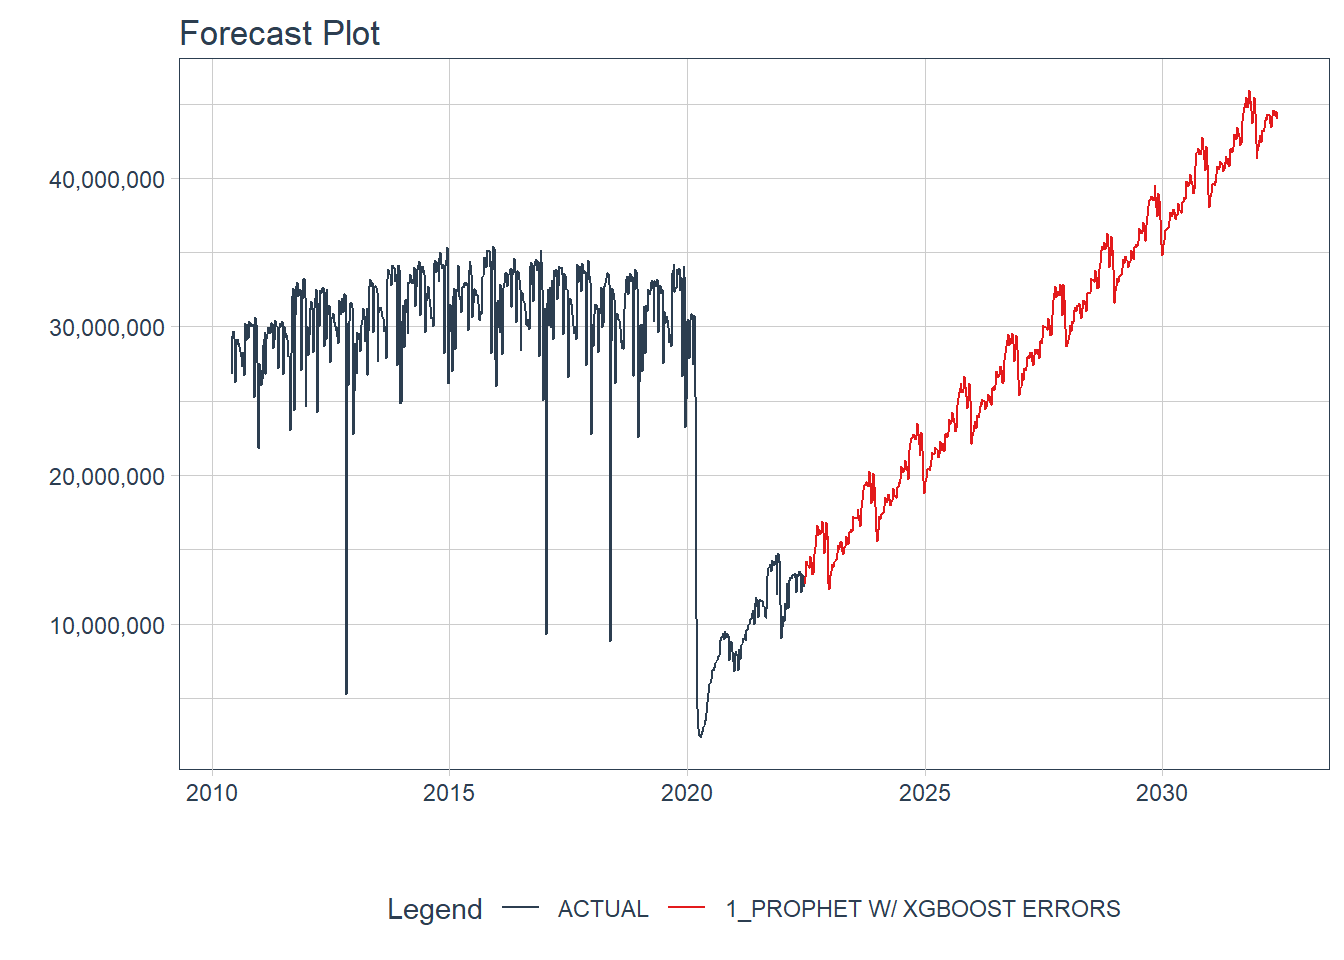
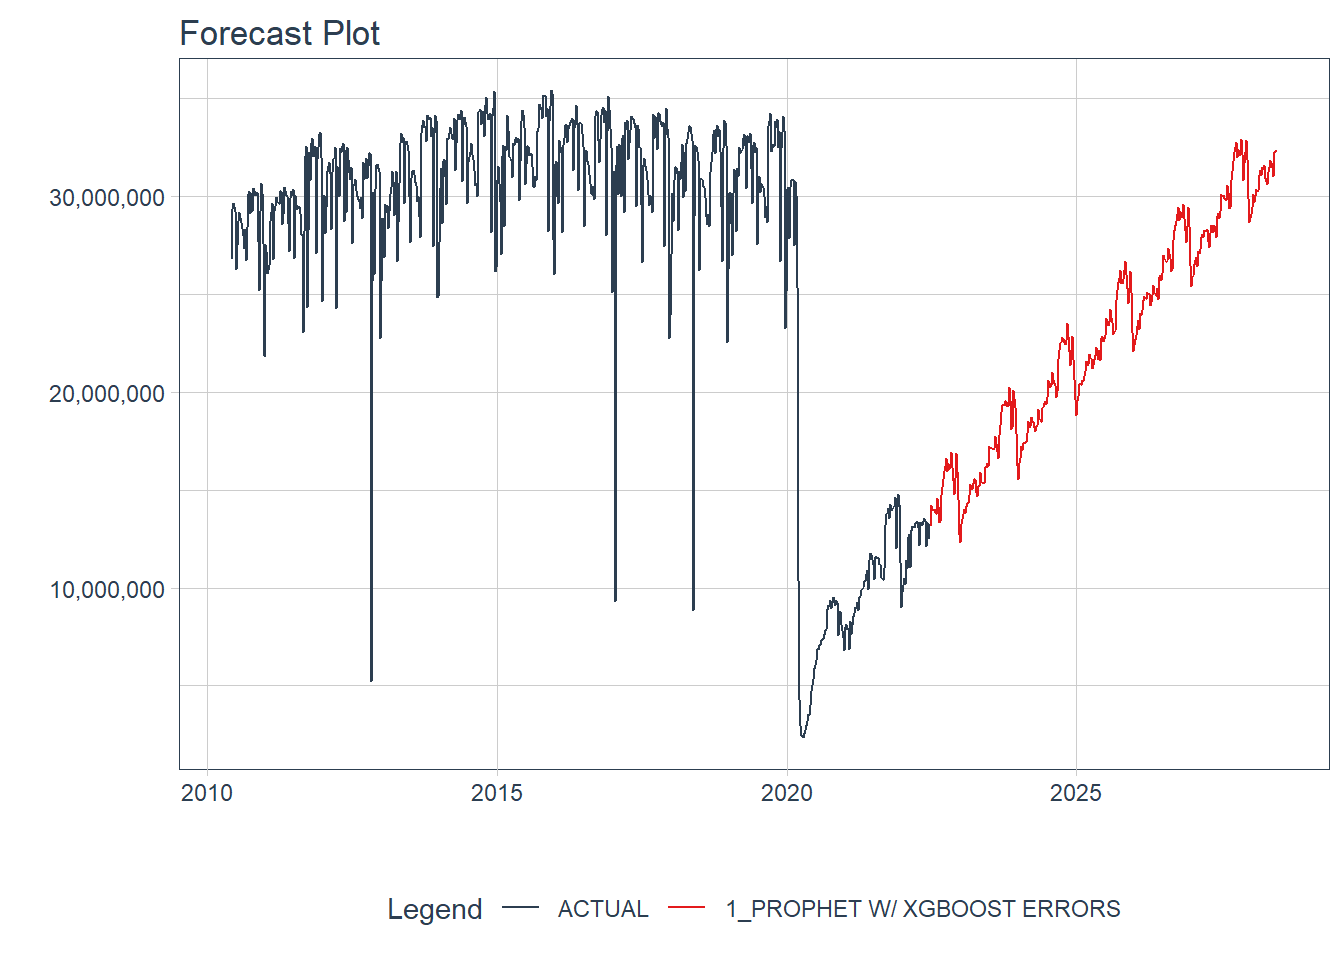
first update

diff --git a/content/post/2022-08-29-when-will-nyc-s-subway-ridership-recover/index.html b/content/post/2022-08-29-when-will-nyc-s-subway-ridership-recover/index.html
@@ -23,7 +23,7 @@ projects: []
 
 
 
-<p>During the writing of my posts about COVIDs effect on the NYC Subway ridership the New York Times published an article called <a href="https://www.nytimes.com/2022/08/15/nyregion/mta-nyc-budget.html"><em>The Pandemic Wasn’t Supposed to Hurt New York Transit This Much</em></a>. In this article there’s comment that:</p>
+<p>During the writing of my posts about COVID’s effect on the NYC Subway ridership the New York Times published an article called <a href="https://www.nytimes.com/2022/08/15/nyregion/mta-nyc-budget.html"><em>The Pandemic Wasn’t Supposed to Hurt New York Transit This Much</em></a>. In this article there’s comment that:</p>
 <p><img src="nytimes.PNG" /></p>
 <p>While I have no knowledge of there this 80% target by 2026 comes from, I do have some subway fare data sitting around. So why not compare the article’s data to my own.</p>
 <p>The methodology will be similar to what I did in my <a href="https://jlaw.netlify.app/2022/07/13/how-much-has-covid-cost-the-nyc-subway-system-in-lost-fares/">initial subway forecasting post</a> using the <code>modeltime</code> package and the champion Prophet w/ XGBoosted Errors to do the forecasting.</p>
@@ -44,17 +44,22 @@ library(prophet) # Algorithm for forecasting</code></pre>
 </div>
 <div id="data" class="section level2">
 <h2>Data</h2>
-<p>The data is the same set from my [initial post](post](<a href="https://jlaw.netlify.app/2022/07/13/how-much-has-covid-cost-the-nyc-subway-system-in-lost-fares/" class="uri">https://jlaw.netlify.app/2022/07/13/how-much-has-covid-cost-the-nyc-subway-system-in-lost-fares/</a>).</p>
+<p>The data is the same set from my [initial post](post](<a href="https://jlaw.netlify.app/2022/07/13/how-much-has-covid-cost-the-nyc-subway-system-in-lost-fares/" class="uri">https://jlaw.netlify.app/2022/07/13/how-much-has-covid-cost-the-nyc-subway-system-in-lost-fares/</a>). Its initially at the week/station/fare level. For this exercise I just need the data at the weekly level.</p>
 <pre class="r"><code>fares &lt;- readRDS(file.path(here(), &#39;content&#39;, &#39;post&#39;, 
                            &#39;2022-07-13-how-much-has-covid-cost-the-nyc-subway-system-in-lost-fares&#39;, 
                            &#39;data&#39;,
                            &#39;mta_data.RDS&#39;)) %&gt;% 
   group_by(week_start) %&gt;% 
   summarize(fares = sum(fares))</code></pre>
+<p>My <a href="https://jlaw.netlify.app/2022/07/13/how-much-has-covid-cost-the-nyc-subway-system-in-lost-fares/">first blog post</a> in this series covered the <code>modeltime</code> package in more detail for trying out many different forcasting models. That post found that Prophet with XGBoosted Errors was the best model. Here I’ll be replicating that workflow for that modeltype.</p>
+<p><em>Step 1: Defining the pre-processing recipe</em></p>
+<p>This defines the forecasting formula as predicting fares based on all other features and then creates a bunch of time series specific features from the date field in <code>step_timeseries_signature</code>. <code>step_rm</code> removes some variables created in the prior step that isn’t useful, and finally <code>step_dummy</code> turns all the categorical variables into one-hot encoded indicators. Here I also set the training data set as the MTA Fares beginning during the COVID period (after April 1, 2020) since training on the prior time period will give very strange results.</p>
 <pre class="r"><code>rec &lt;- recipe(fares ~ ., data = fares %&gt;% filter(week_start &gt;= ymd(20200401))) %&gt;%
   step_timeseries_signature(week_start) %&gt;% 
   step_rm(matches(&quot;(.iso$)|(am.pm$)|(.xts$)|(hour)|(minute)|(second)|(wday)&quot;)) %&gt;% 
   step_dummy(all_nominal(), one_hot = TRUE)</code></pre>
+<p><em>Step 2: Define the Model Workflow and Fit the Model</em></p>
+<p>Sticking with the <code>tidymodels</code> framework, here I define a workflow which will consist of the recipe created in <em>Step 1</em> through <code>add_recipe</code> and the model set through <code>add_model()</code>. Within <code>add_model()</code> sets the model type to be Boosted Prophet. I believe the ‘prophet_xgboost’ is the default engine so <code>set_engine</code> isn’t necessary, but good to keep around anyway.</p>
 <pre class="r"><code>prophet_boost_wf &lt;- workflow() %&gt;%
   add_model(
     prophet_boost(seasonality_yearly = TRUE) %&gt;%
@@ -62,31 +67,85 @@ library(prophet) # Algorithm for forecasting</code></pre>
   ) %&gt;% 
   add_recipe(rec) %&gt;%
   fit(fares %&gt;% filter(week_start &gt;= ymd(20200401)) )</code></pre>
+<p><em>Step 3: Using the Model to Forecast the Future</em></p>
+<p>In this instance I don’t have a test set to work with so I’m jumping directly into forecasting. Also since I don’t know how long it will take for the forecast to recover to pre-COVID levels, I’ll set the forecast horizon for 6 years. I provide the actual data in the <code>actual_data</code> field so that its included in the output data set.</p>
 <pre class="r"><code>final_fcst &lt;- modeltime_table(
     prophet_boost_wf
   ) %&gt;% 
   modeltime_forecast(
-    new_data = tibble(week_start = seq.Date(ymd(20220618), by = &quot;weeks&quot;, 
-                                            length.out = 52*10)),
+    h = &quot;6 years&quot;,
     actual_data = fares,
     keep_data = TRUE
   )</code></pre>
+<p><em>Visualizing the Forecast</em></p>
+<p>The <code>modeltime</code> package makes it easy to visualize the data through the <code>plot_modeltime_forecast</code> package. The default is to create a <code>plot.ly</code> plot but that can be coverted to a <code>ggplot2</code> plot by setting <code>.interactive</code> to <code>FALSE</code>.</p>
 <pre class="r"><code>final_fcst %&gt;% 
-  plot_modeltime_forecast(.conf_interval_show = T, .interactive = F) + 
+  plot_modeltime_forecast(.interactive = F) + 
   scale_y_continuous(labels = comma)</code></pre>
 <p><img src="{{< blogdown/postref >}}index_files/figure-html/unnamed-chunk-6-1.png" width="672" /></p>
 </div>
 <div id="when-does-fares-return-to-80-to-100" class="section level2">
 <h2>When does fares return to 80%? To 100%?</h2>
+<p>Now we can see how close my forecast is to the New York Times Report. I don’t actually know what the NY Times is considering Pre-COVID levels but for my purposes I’ll use the average number of fares in December 2019 to be my Pre-COVID.</p>
 <pre class="r"><code>baseline &lt;- fares %&gt;% 
   filter(month(week_start)==12 &amp; year(week_start) == 2019) %&gt;% 
   summarize(avg_fares = mean(fares)) %&gt;% 
-  pull(avg_fares)
-
-recovery &lt;- final_fcst %&gt;% 
+  pull(avg_fares)</code></pre>
+<p>From the projection plot above its clear that there is a seasonality that peaks in the fall and drops in December through the New Year. To declare victory at 80% I’m going to require that there are 4 consecutive weeks of fares being above the Pre-COVID baseline.</p>
+<p>I’m not sure of a great way to define when is the earliest date of the first run of 4 weeks above a threshold but I’m working it out in three steps:</p>
+<ol style="list-style-type: decimal">
+<li>Define an indicator for whether that week is above 80% (<code>above_80_ind</code>)</li>
+<li>Run a counter for each time that the indicator flips from 0 to 1 (<code>run_id_80</code>) to get an id for each run</li>
+<li>For each <code>run_id_80</code> get the sum of <code>above_80_inds</code> to represent the length of each run</li>
+</ol>
+<pre class="r"><code>rec_pct &lt;- final_fcst %&gt;% 
   filter(week_start &gt;= ymd(20200401)) %&gt;% 
-  mutate(recovery_pct = .value / baseline) %&gt;% 
+  # Build Recovery Percentage
+  mutate(recovery_pct = .value / baseline) %&gt;%
+  # Define Runs of when recovery_pct is above .8
+  mutate(
+    above_80_ind = (recovery_pct &gt; .8),
+    above_100_ind = (recovery_pct &gt; 1)
+  ) %&gt;% 
+  # Define ID for each time we start a run
+  mutate(
+    run_id_80 = cumsum(if_else(above_80_ind == 1 &amp; lag(above_80_ind) == 0, 
+                               1, 0)),
+    run_id_100 = cumsum(if_else(above_100_ind == 1 &amp; lag(above_100_ind) == 0, 
+                               1, 0))
+  ) %&gt;% 
+  add_count(run_id_80, wt = above_80_ind, name = &quot;run_length_80&quot;) %&gt;%
+  add_count(run_id_100, wt = above_100_ind, name = &quot;run_length_100&quot;)</code></pre>
+<p>Now I can plot the recovery percentage by week and show that the first time there are four concecutive weeks above 80% is 2025-07-05 and the first time there are four concecutive weeks above 100% of the Pre-COVID value is 2027-06-26.</p>
+<pre class="r"><code>rec_pct %&gt;% 
   ggplot(aes(x = week_start, y = recovery_pct)) + 
-    geom_line() + 
-    scale_y_continuous(labels = percent)</code></pre>
+    geom_line(color = &quot;#0039A6&quot;) + 
+    geom_segment(aes(x = min(week_start), 
+                     xend = rec_pct[which.max(rec_pct$run_length_80 &gt;= 4), ]$week_start,
+                     y = .8,
+                     yend = .8), lty = 2) + 
+    geom_segment(aes(x = rec_pct[which.max(rec_pct$run_length_80 &gt;= 4), ]$week_start,
+                     xend = rec_pct[which.max(rec_pct$run_length_80 &gt;= 4), ]$week_start,
+                     y = 0,
+                     yend = .8), lty = 2) + 
+    geom_segment(aes(x = min(week_start), 
+                     xend = rec_pct[which.max(rec_pct$run_length_100 &gt;= 4), ]$week_start,
+                     y = 1,
+                     yend = 1), lty = 2) + 
+    geom_segment(aes(x = rec_pct[which.max(rec_pct$run_length_100 &gt;= 4), ]$week_start,
+                     xend = rec_pct[which.max(rec_pct$run_length_100 &gt;= 4), ]$week_start,
+                     y = 0,
+                     yend = 1), lty = 2) + 
+    scale_x_date(breaks = &quot;1 years&quot;,
+                 labels = year,
+                 expand = c(0, 0)) + 
+    scale_y_continuous(labels = percent, expand = c(0, 0),
+                       breaks = seq(0, 1.6, .2)) + 
+    labs(title = &quot;Projected MTA Recovery vs. Pre-COVID&quot;,
+         subtitle = &quot;Pre-COVID Baseline from December 2019&quot;, 
+         x = &quot;Date&quot;, y = &quot;% of Dec 2019 Baseline&quot;) + 
+    cowplot::theme_cowplot()</code></pre>
+<p><img src="{{< blogdown/postref >}}index_files/figure-html/unnamed-chunk-9-1.png" width="672" />
+Based on this projection the NY Times article is being slightly pessimistic. According to the above NYC should reach 80% of Pre-COVID baseline by Mid-2025 which is earlier than the article’s projection of 2026.</p>
+<p>Who will be right? We’ll have to wait at least 3 years to find out!</p>
 </div>
